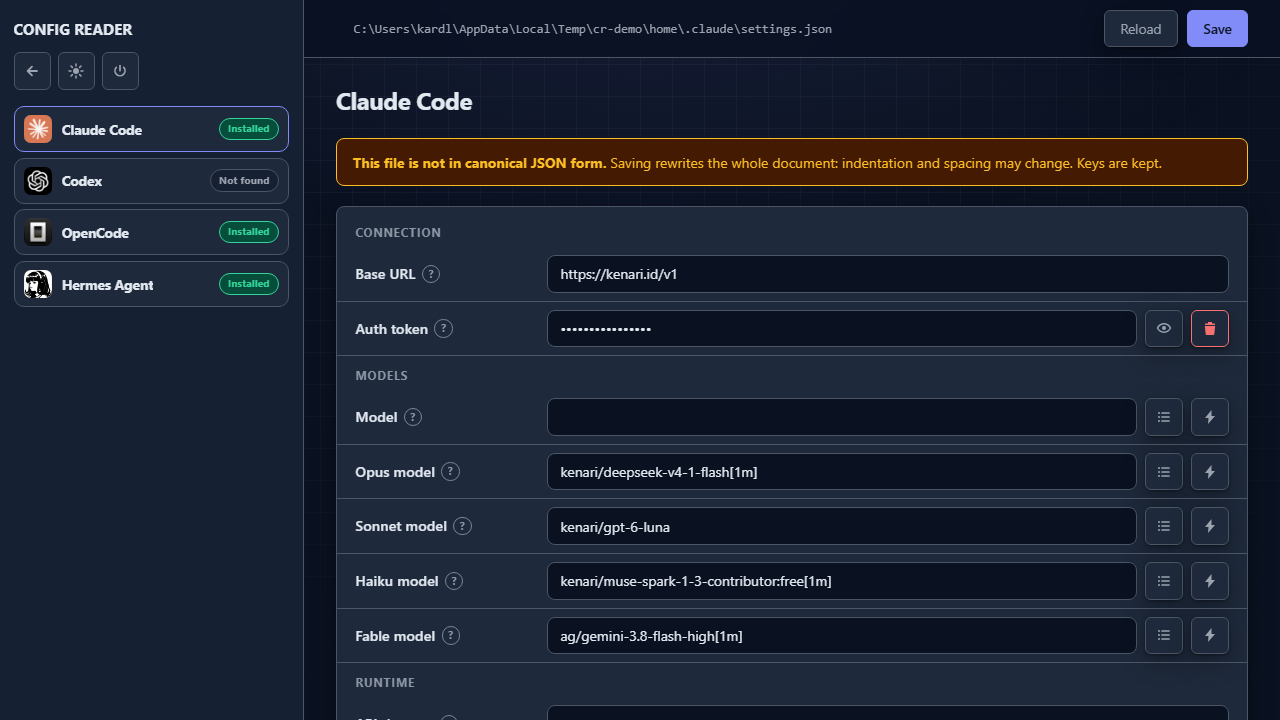
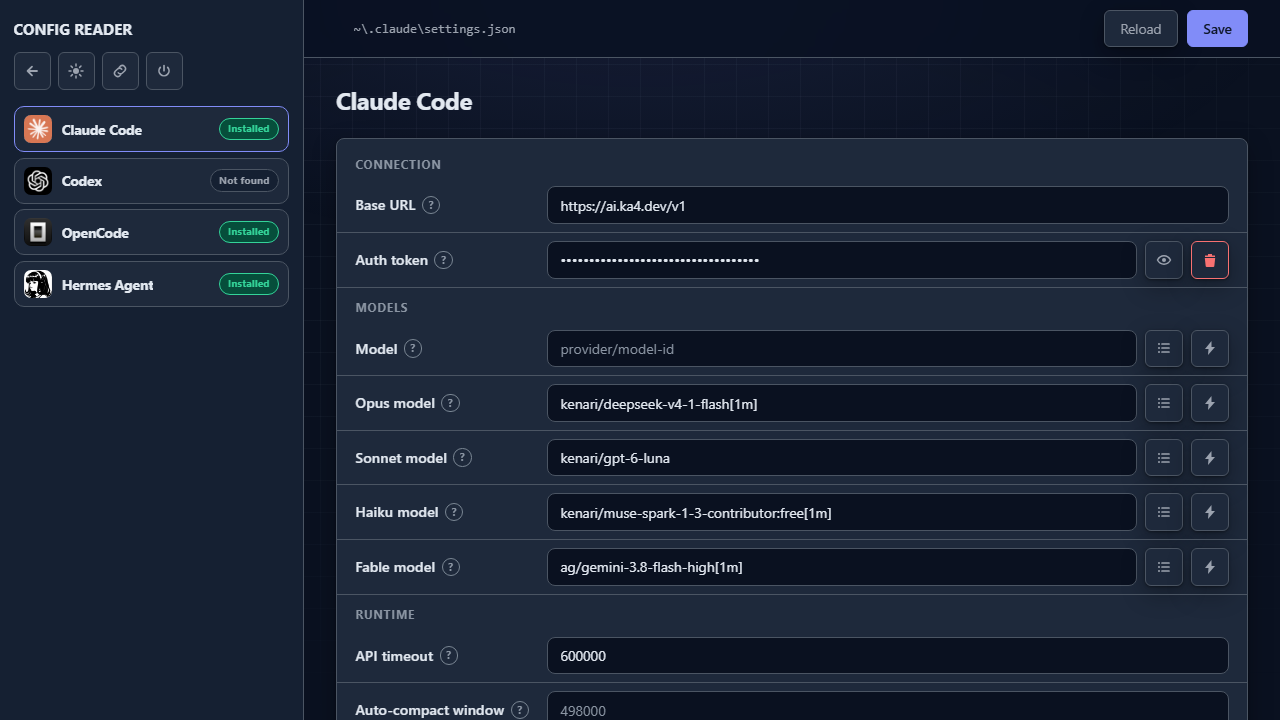
docs: document saved endpoints, refresh the screenshots, state the platform limits
The README had no user-facing words for the endpoints store — only file
listings — so it gains a section: Apply fills the form while Save stays the
only writer, "Save from the form" reads a tool that is already configured,
where the store lives, and how the token is held (DPAPI on Windows, plain in a
600 file elsewhere, never in a list reply).

Screenshots regenerated from a running server against a live gateway: 33 real
models in the picker, one full endpoint card. The previous three were stale.

Requirements now name WSL and spell out the one thing that cannot be guessed:
a Windows box with a distro installed has two ~/.claude directories, and
CLAUDE_CONFIG_DIR is how you point at the other one. It also says plainly that
the POSIX branches are covered by checks and per-platform path composition,
not by a run on a Linux host.

Changed region(s): [[0.25, 0.1833, 1.0, 1.0], [0.2812, 0.0306, 0.6562, 0.0611]]

diff --git a/README.md b/README.md
@@ -8,7 +8,7 @@ Pick a tool, and its config opens beside the picker. Change the connection value
 
 ![CONFIG READER landing page, dark theme](assets/landing-dark.png)
 
-**Quick nav:** [Quick start](#quick-start) · [Features](#features) · [Supported tools](#supported-tools) · [Any gateway](#point-it-at-any-gateway) · [CLI](#cli) · [API](#api)
+**Quick nav:** [Quick start](#quick-start) · [Features](#features) · [Supported tools](#supported-tools) · [Saved endpoints](#saved-endpoints) · [Any gateway](#point-it-at-any-gateway) · [CLI](#cli) · [API](#api)
 
 ## Why
 
@@ -38,6 +38,7 @@ On Windows you can also double-click `start.cmd`. Put a desktop icon there once 
 - **Full `env` editor for Claude Code** — 10 known fields (connection, models, runtime) grouped as cards, plus an "Other variables" section so unknown keys stay visible and survive round-trips.
 - **Simple mode for 3 more tools** — the same connection values patched into each tool's native format by text surgery; the rest of the file is never rewritten.
 - **Model picker that reads any gateway** — fetches `<base>/v1/models` server-side and lists what the endpoint actually reported. See [Point it at any gateway](#point-it-at-any-gateway).
+- **Saved endpoints** — a base URL, auth token and default model kept once and applied to any tool's form. See [Saved endpoints](#saved-endpoints).
 - **Safe saves** — atomic write (tmp + rename), 5 rotating backups, a stale-write guard that returns `409` when the file changed under you, per-file EOL preserved, and no-op saves that skip the backup.
 - **Dark / light theme** — follows the OS, toggle persisted in `localStorage`, painted before CSS so there is no light flash on load.
 - **Localhost-hardened** — binds `127.0.0.1` only, checks `Origin` on every `/api/*` call (reads included — the settings reply carries your token), caps bodies at 5 MB, never logs secrets, never sends the API token to the browser.
@@ -55,6 +56,22 @@ All non-Claude tools are pointed at the `9router` provider id, so an existing 9R
 
 ![Model picker, dark theme](assets/model-picker-dark.png)
 
+## Saved endpoints
+
+The same three values — base URL, auth token, default model — get typed into every tool you point at the same gateway. Save them once instead, and fill any tool's form with one click.
+
+![Saved endpoints, dark theme](assets/connections-dark.png)
+
+**Apply fills the form; Save writes the file.** Apply never touches a config on its own — it puts the values in the editor and marks the form dirty, so the existing Save button stays the only thing that writes a tool's config. That is also why the token can live in the store without a second write path existing.
+
+**Saving the form you already have.** A tool is often configured before you open this dialog — by hand, by another tool, by an earlier session. **Save from the form** reads the open tool's own base URL, token and model into a new row, so an existing setup becomes a saved endpoint in one click instead of three retyped values.
+
+**Where it lives.** `~/.config-reader/connections.json` — under your home directory, so re-cloning the editor does not take the tokens with it.
+
+**How the token is stored.** On Windows it is a DPAPI blob that only your account on that machine can open; copy the file elsewhere and the key refuses to decrypt, and the row says so rather than applying an empty token. On Linux, WSL and macOS there is no OS key store this project can reach without its first dependency, so the token is plain text in a file with mode `600`. Either way the store is one more place a token lives: rotating a token means updating it here too.
+
+**The list reply never carries a token.** `GET /api/connections` returns names, base URLs, models and a `hasKey` flag. The value itself is handed out one row at a time, by name, only when Apply asks for it — so a screenshot or a shared screen of the list shows nothing secret.
+
 ## Point it at any gateway
 
 Base URL in, model list out. The picker fetches `<base>/v1/models` server-side and shows what the endpoint actually reported: context window, image input, tool and reasoning support, free tiers, display names.
@@ -65,7 +82,12 @@ Nothing is guessed. Gateways spell the same fact differently and some simply don
 
 - **Node.js 22.13+** — the release where `node:module`'s `stripTypeScriptTypes` actually landed (v22.13.0, and v23.2.0 on the odd line). A bare major check would wave 22.0–22.12 through. The check is by capability, so an older runtime gets a sentence, not a stack trace.
 - **No `npm install`. No `package.json`.** Clone and run.
-- **Windows, macOS, or Linux.** The desktop shortcut installer covers all three: `.lnk` on Windows, `.desktop` on Linux, and a double-clickable `.command` in `~/Applications` on macOS.
+- **Windows, WSL, Linux, or macOS.** The desktop shortcut installer covers all three families: `.lnk` on Windows, `.desktop` on Linux, and a double-clickable `.command` in `~/Applications` on macOS. Paths follow each tool's own rule, so `~` is whatever that platform calls home.
+
+> [!NOTE]
+> **WSL and cross-platform paths.** Run inside WSL and the editor edits the Linux-side configs. Run on Windows with a WSL distro installed and you get two separate `~/.claude` directories — the Windows one and the distro's — and no tool can guess which you meant. Point at the other side explicitly with `CLAUDE_CONFIG_DIR` (`/mnt/c/Users/you/.claude` from inside WSL, or `\\wsl.localhost\<distro>\home\you\.claude` from Windows). The same applies to `CODEX_HOME` and `HERMES_HOME`.
+>
+> Verified on Windows; the POSIX branches (`chmod 600`, the `.desktop`/`.command` installers, `xdg-open`) are covered by the checks and by path-composition tests per platform flavour, not by a run on a Linux host.
 
 ## CLI
 
@@ -92,6 +114,7 @@ Environment overrides, each following the tool's own rule: `CLAUDE_CONFIG_DIR` f
 - **Simple-mode secrets stay put.** Hermes keeps its key in `.env`, so the form hands that field back empty on load — empty means "leave the stored key alone", not "erase it".
 - **Buttons say what they are doing.** Every button that waits on the network (Save, Reload, Load models, the per-model test) disables itself and shows a spinner while the request is in flight, then hands itself back when it settles — including when it fails.
 - **Backups:** `<config-dir>/backups/<file>.backup.<timestamp>`, last 5 kept, oldest pruned first. The same scheme sits beside each simple-mode file.
+- **Confirmation before anything is lost.** Reload, going back, closing the endpoints dialog with unsaved rows, and stopping the server each ask first, in a dialog that names the action. A refused confirm leaves your draft exactly where it was.
 
 ## API
 
@@ -109,6 +132,9 @@ All paths are derived server-side. The browser names a **tool**, never a file.
 | `POST` | `/api/settings` | `env`: `{ tool, doc, baseMtimeMs }`. `simple`: `{ tool, values }`. Returns `{ ok, bytes, mtimeMs, backup }`. |
 | `POST` | `/api/models` | `{ baseUrl, apiKey }` (unsaved draft) → `{ url, models, caps }` or `{ error }`. Token used server-side only. |
 | `POST` | `/api/test-model` | `{ baseUrl, apiKey, model }` → `{ ok, ms, error? }`. One tiny completion — a model can be listed and still be down upstream. |
+| `GET` | `/api/connections` | `{ file, exists, atRest, profiles: [{ name, baseUrl, model, hasKey }] }`. Never a token. |
+| `POST` | `/api/connections` | `{ profiles }` → `{ ok, count }`. A row with no `apiKey` keeps the stored one, so editing a URL never means retyping the token. `400` on a bad URL, a duplicate name, or more than 50 rows. |
+| `POST` | `/api/connections/reveal` | `{ name }` → `{ apiKey }`, or `409` when the blob cannot be opened on this machine. |
 | `POST` | `/api/shutdown` | Stop the server. Answered before the exit, so the browser gets the reply. |
 
 Error contract: `400` bad input · `403` bad `Origin` · `409` stale write (the file changed since load — reload, don't force) · `413` body over 5 MB · `502` model-list fetch failed, with the real reason (`ECONNREFUSED`, `ENOTFOUND`, status detail) rather than a bare "fetch failed".
@@ -116,14 +142,41 @@ Error contract: `400` bad input · `403` bad `Origin` · `409` stale write (the 
 ## Project structure
 
 ```
-server.js             HTTP server, all read/write logic, selftest, shortcut installer. Node stdlib only.
-app.ts                Frontend, single source — served as /app.js via type stripping, no tsc.
-index.html            One page: the tool rail and the editor.
+server.js             Entry point: version check, CLI flags, server start. Node stdlib only.
+lib/
+  paths.js            Every filesystem path this project derives, server-side.
+  fs-safe.js          Atomic writes, backup rotation, BOM/EOL helpers.
+  http.js             send / origin check / body cap, the TS stripper, browser open.
+  upstream.js         Base-URL normalisation: /v1, model list, chat URL.
+  util.js             num / str — the two scalar coercions shared across modules.
+  model-caps.js       Context window, vision, tools, pricing from a /v1/models reply.
+  secrets.js          DPAPI at rest on Windows; plain elsewhere.
+  connections.js      The saved-endpoint store.
+  shortcut.js         Desktop launcher installers for Windows, Linux, macOS.
+  router.js           All HTTP routes.
+  tools/
+    index.js          Tool registry (id, mode, bin), path resolution, simple-mode dispatch.
+    claude.js         Claude Code env-mode reader.
+    codex.js          Codex TOML reader/writer.
+    opencode.js       OpenCode JSONC reader/writer.
+    hermes.js         Hermes YAML block patcher + .env upsert.
+app.ts                Frontend entry: wire-up and boot. Served as /app.js by type stripping.
+tsconfig.json         Editor-only: lib and module resolution for the app/x.js specifiers.
+app/
+  state.ts            Shared state and its setters; env()/setEnv().
+  ui.ts               DOM helpers, icons, toast.
+  fields.ts           Field definitions for every tool.
+  editor.ts           The field cards and the load/save round-trip.
+  landing.ts          The tool cards, the scan, open/close.
+  models.ts           The model picker.
+  connections.ts      The saved-endpoints dialog.
+  theme.ts            Light/dark.
+index.html            One page: the tool rail and the editor. Loads /app.js as a module.
 styles.css            All styling, light/dark via CSS custom properties + data-theme.
 icons/                One PNG per tool id (claude, codex, opencode, hermes).
 start.cmd             Windows entry point: open, or --shortcut to install the desktop icon.
 assets/               Screenshots used by this README, all captured at 1280x720.
-tools/
+scripts/
   selftest.js         Logic checks: round-trip, backups, path composition, formats.
   check-save.mjs      End-to-end save-path exercise against a scratch config dir.
   check-ui.mjs        DOM-shim contract test for both screens.
@@ -133,27 +186,27 @@ tools/
   build-catalog.mjs   Regenerates the settings-key catalog from docs + schemastore.
 ```
 
-`launch.vbs` and `catalog.json` are generated and not tracked — the launcher is recreated by `--shortcut`, the catalog by `tools/build-catalog.mjs`.
+`launch.vbs` and `catalog.json` are generated and not tracked — the launcher is recreated by `--shortcut`, the catalog by `scripts/build-catalog.mjs`.
 
 ## Development
 
 ```sh
 node server.js --selftest        # fast logic checks, no browser needed
-node tools/check-save.mjs        # boots a scratch server, never touches ~/.claude
-node tools/check-ui.mjs          # picker → editor contract, via a DOM shim
-node tools/check-contrast.mjs    # every colour pair the stylesheet paints, both themes
-OUT=./tools/shots node tools/shot.mjs [http://127.0.0.1:8787]   # screenshots
-OUT=./assets node tools/shot-readme.mjs [http://127.0.0.1:8787] # README images, 1280x720
+node scripts/check-save.mjs      # boots a scratch server, never touches ~/.claude
+node scripts/check-ui.mjs        # picker → editor contract, via a DOM shim
+node scripts/check-contrast.mjs  # every colour pair the stylesheet paints, both themes
+OUT=./scripts/shots node scripts/shot.mjs [http://127.0.0.1:8787]   # screenshots
+OUT=./assets node scripts/shot-readme.mjs [http://127.0.0.1:8787]   # README images, 1280x720
 ```
 
 Current state of those checks:
 
 | Check | Result |
 |-------|--------|
-| `node server.js --selftest` | 191 passed |
-| `node tools/check-ui.mjs` | 258 passed |
-| `node tools/check-save.mjs` | 81 passed |
-| `node tools/check-contrast.mjs` | 84 contrast pairs pass, 38 tokens all referenced |
+| `node server.js --selftest` | 210 passed |
+| `node scripts/check-ui.mjs` | 300 passed |
+| `node scripts/check-save.mjs` | 93 passed |
+| `node scripts/check-contrast.mjs` | 90 contrast pairs pass, 41 tokens all referenced |
 
 > [!NOTE]
 > `check-contrast.mjs` is a gate, not a report. It reads the tokens out of `styles.css`, checks every foreground/background pair the stylesheet actually paints, verifies the three theme blocks declare the same keys, and fails if a declared token is never referenced.
@@ -167,13 +220,14 @@ Current state of those checks:
 - No file path ever arrives from the client. `toolPaths()` is server-side and unknown tool ids are refused.
 - `http(s)` only for Base URL and the model-list fetch — `file://` and `ftp://` are rejected.
 - File contents and tokens are never logged. Console lines name the file and the byte count, nothing more.
+- The endpoint store is the one file holding secrets this project creates. Its token never rides a list reply; it is handed out per row on Apply. On Windows it is DPAPI-encrypted to your account; elsewhere it is plain text in a `600` file.
 
 ## Contributing
 
 Issues and PRs welcome. Keep it dependency-free: stdlib only, no build step, smallest diff that holds.
 
 ```sh
-node server.js --selftest && node tools/check-save.mjs && node tools/check-ui.mjs && node tools/check-contrast.mjs
+node server.js --selftest && node scripts/check-save.mjs && node scripts/check-ui.mjs && node scripts/check-contrast.mjs
 ```
 
 ## Contributors
